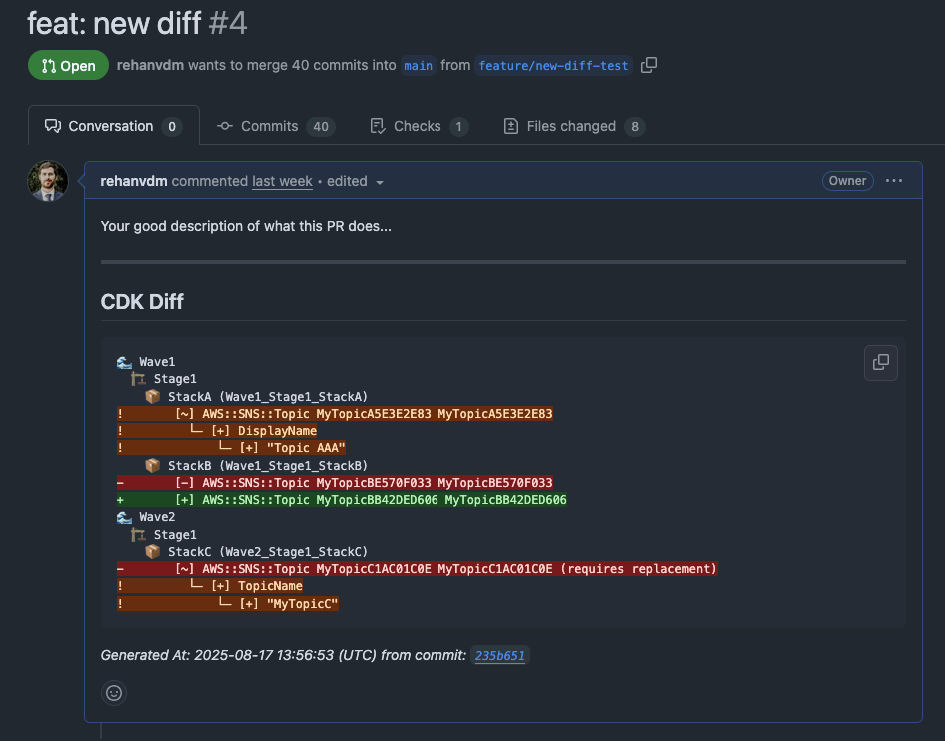
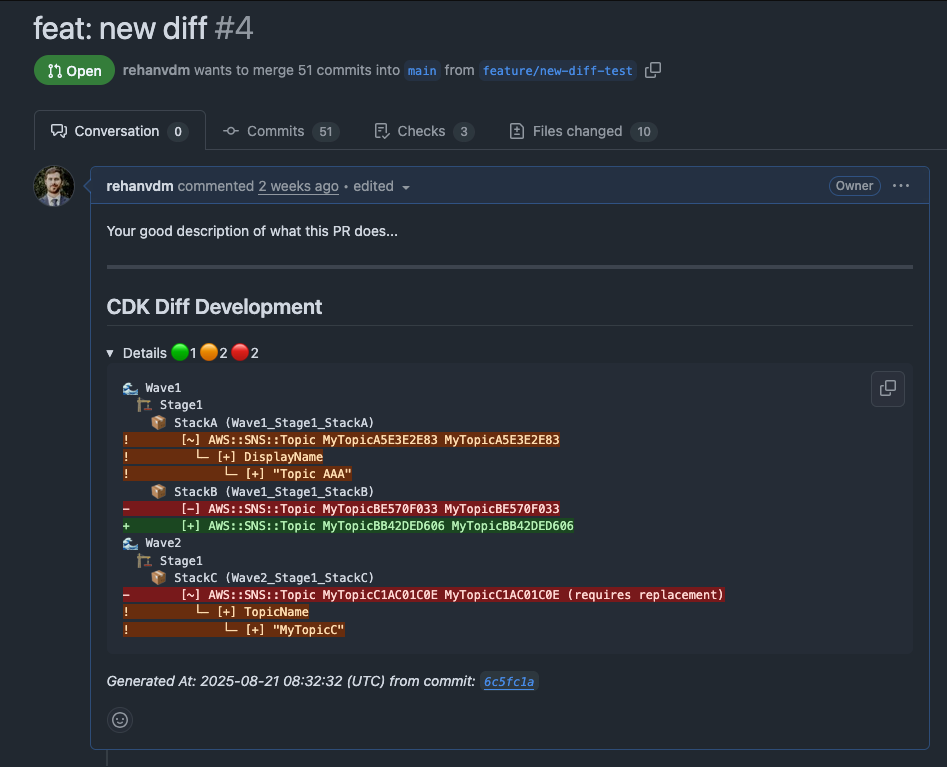
docs

diff --git a/README.md b/README.md
@@ -16,13 +16,20 @@ waves, stages and stacks.
 
 ## Usage
 
-There are multiple ways to use this action depending on your workflow needs. Below shows a basic example where a single
-job generates and displays diffs. Then a more complex example that uses matrix jobs to generate diffs in parallel and
-then combines the output.
+There are multiple ways to use this action depending on your workflow needs. 
 
-### Basic Usage
+| Input                      | Description                                                    | Required | Default           |
+| -------------------------- | -------------------------------------------------------------- | -------- | ----------------- |
+| `mode`                     | Action mode: `generate` to create diffs, `print` to update PR  | ✅       | -                 |
+| `cloud-assembly-directory` | Directory containing the CDK Cloud Assembly                    | ❌       | `cdk.out`         |
+| `stack-selectors`          | Comma-separated stack selectors or patterns to diff            | ❌       | `**` (all stacks) |
+| `github-token`             | GitHub token for API access and caching                        | ✅       | -                 |
+| `job-name`                 | Name of the job, used to link to action/job logs in summaries. | ❌       | -                 |
 
-For simple workflows where you generate and display diffs in a single job:
+
+### Basic - Single Job Diff
+
+For simple workflows where you generate and display diffs in a single job.
 
 ```yaml
 name: CDK Diff
@@ -48,13 +55,16 @@ jobs:
         with:
           role-to-assume: arn:aws:iam::123456789012:role/your-github-deploy-role
           aws-region: us-east-1
+          
       - name: Synthesize CDK
         run: npm run cdk -- synth '**'
+        
       - name: Generate CDK Diff
         uses: rehanvdm/cdk-express-pipeline-github-diff@v1
         with:
           mode: 'generate'
           github-token: ${{ secrets.GITHUB_TOKEN }}
+          
       - name: Update PR with Diff
         uses: rehanvdm/cdk-express-pipeline-github-diff@v1
         with:
@@ -62,12 +72,16 @@ jobs:
           github-token: ${{ secrets.GITHUB_TOKEN }}
 ```
 
-### Complex example with Parallel Diffs using Matrix
+### Complex - Parallel Diffs using Matrix
 
-For matrix workflows where you generate diffs across multiple jobs and combine the output:
+Doing diffs in parallel can significantly speed up the process, especially for large CDK applications with many stacks.
+This example shows how you can you generate diffs across multiple jobs in parallel and combine the output.
+
+<details>
+<summary> Click for Workflow YAML </summary>
 
 ```yaml
-name: CDK Diff Matrix
+name: CDK Diff Parallel
 on:
   pull_request:
     branches: [main]
@@ -97,6 +111,7 @@ jobs:
         with:
           role-to-assume: arn:aws:iam::123456789012:role/your-github-deploy-role
           aws-region: us-east-1
+          
       - name: Synthesize CDK
         run: npm run cdk -- synth '**'
       - name: Generate CDK Diff
@@ -121,15 +136,91 @@ jobs:
           github-token: ${{ secrets.GITHUB_TOKEN }}
 ```
 
-## Inputs
+</details>
 
-| Input                      | Description                                                    | Required | Default           |
-| -------------------------- | -------------------------------------------------------------- | -------- | ----------------- |
-| `mode`                     | Action mode: `generate` to create diffs, `print` to update PR  | ✅       | -                 |
-| `cloud-assembly-directory` | Directory containing the CDK Cloud Assembly                    | ❌       | `cdk.out`         |
-| `stack-selectors`          | Comma-separated stack selectors or patterns to diff            | ❌       | `**` (all stacks) |
-| `github-token`             | GitHub token for API access and caching                        | ✅       | -                 |
-| `job-name`                 | Name of the job, used to link to action/job logs in summaries. | ❌       | -                 |
+### Advance - Multiple Cloud Assemblies
+
+You might want to do multiple diffs per environment on a single PR. For example, doing both `dev` and `prod` diffs on 
+the PR to `main` enables catching issues on `prod` early, before the code is merged to `main`. This can be done by 
+generating Cloud Assemblies with `cdk synth --output ASSEMBLY_DIR` for each environment and then using their output
+directories in the action. 
+
+This example does a `**` diff to keep it brief, but you can also do the diffs in parallel using the matrix strategy
+as shown above.
+
+<details>
+<summary> Click for Workflow YAML </summary>
+
+```yaml
+name: Diff Multiple Assemblies
+on:
+  pull_request:
+    branches: [main]
+jobs:
+  diff-envs:
+    name: CDK Diff Environments
+    runs-on: ubuntu-latest
+    permissions:
+      pull-requests: write
+      id-token: write
+    strategy:
+      matrix:
+        include:
+          - cloud-assembly-directory: cdk.out/dev
+          - cloud-assembly-directory: cdk.out/prod
+    steps:
+      - name: Checkout repo
+        uses: actions/checkout@v4
+      - name: Set up node
+        uses: actions/setup-node@v3
+        with:
+          node-version: 20
+          cache: npm
+      - name: Install dependencies
+        run: npm install ci
+      - name: Configure AWS credentials
+        uses: aws-actions/configure-aws-credentials@v4
+        with:
+          role-to-assume: arn:aws:iam::123456789012:role/your-github-deploy-role
+          aws-region: us-east-1
+
+      - name: CDK Synth
+        run: npm run cdk -- synth '**' --output ${{ matrix.cloud-assembly-directory }}
+      - name: CDK Diff Generate
+        uses: rehanvdm/cdk-express-pipeline-github-diff@feature/init
+        with:
+          mode: generate
+          github-token: ${{ secrets.GITHUB_TOKEN }}
+          cloud-assembly-directory: ${{ matrix.cloud-assembly-directory }}
+
+  print-diffs:
+    name: CDK Diff and Deploy
+    runs-on: ubuntu-latest
+    needs:
+      - diff-envs
+    permissions:
+      pull-requests: write
+      id-token: write
+    steps:
+      - name: Checkout repo
+        uses: actions/checkout@v4
+      - name: CDK Diff Output
+        uses: rehanvdm/cdk-express-pipeline-github-diff@feature/init
+        with:
+          mode: print
+          github-token: ${{ secrets.GITHUB_TOKEN }}
+          cloud-assemblies: |
+            - header: CDK Diff Development
+              directory: cdk.out/dev
+            - header: CDK Diff Production
+              directory: cdk.out/prod
+```
+
+Will produce the following: 
+
+![advance_pr_description.png](docs/imgs/advance_pr_description.png)
+
+</details>
 
 ## Example Outputs
 
